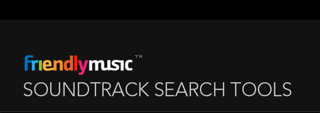
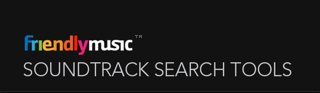
always center header on home page

Changed region(s): [[0.0625, 0.3656, 0.9375, 0.8602], [0.4062, 0.3656, 0.4688, 0.4086]]

diff --git a/RumblefishMobileSDK/Classes/FriendlyMusic.m b/RumblefishMobileSDK/Classes/FriendlyMusic.m
@@ -54,9 +54,6 @@ NSMutableArray *optionArray;
     }
     
     UIImageView *headerImage = [self.view.subviews objectAtIndex:0];
-    headerImage.contentMode = UIViewContentModeScaleToFill;
-
-    headerImage.image = [headerImage.image resizableImageWithCapInsets:UIEdgeInsetsMake(0, 0, 0, headerImage.image.size.width - 2)];
     
     self.navigationController.navigationBar.tintColor = BAR_TINT_COLOR;
     self.navigationController.navigationBarHidden = YES;
